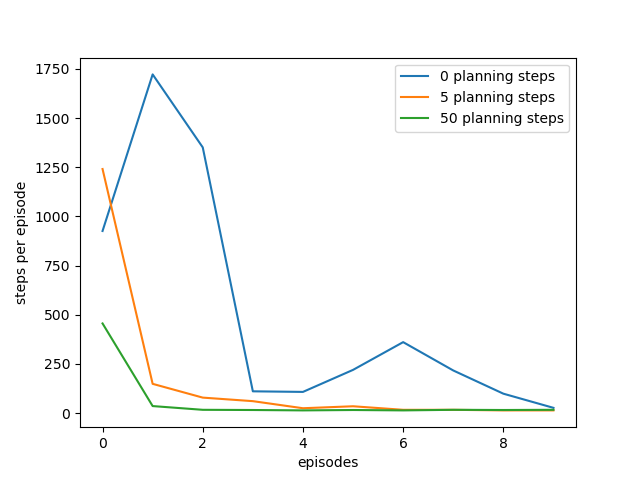
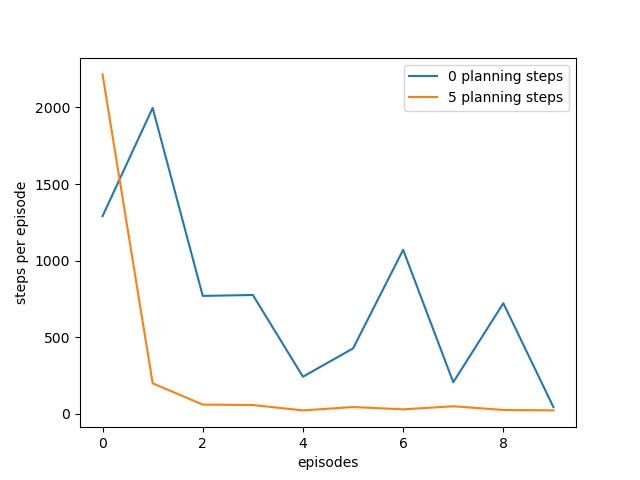
create algorithms file to test

diff --git a/algorithms/Dyn-Q.py b/algorithms/Dyn-Q.py
@@ -4,7 +4,7 @@ matplotlib.use('Agg')
 import matplotlib.pyplot as plt
 from tqdm import tqdm
 import heapq
-from copy import deepcopy
+from copy import copy, deepcopy
 import os
 
 
@@ -14,10 +14,10 @@ import os
 class Maze:
     def __init__(self):
         # maze width
-        self.WORLD_WIDTH = 9
+        self.WORLD_WIDTH = 10
 
         # maze height
-        self.WORLD_HEIGHT = 6
+        self.WORLD_HEIGHT = 10
 
         # all possible actions
         self.ACTION_UP = 0
@@ -30,7 +30,8 @@ class Maze:
         self.START_STATE = [2, 0]
 
         # goal state
-        self.GOAL_STATES = [[0, 8]]
+        # self.GOAL_STATES = [[0, 8],[2,1]]
+        self.GOAL_STATES = [[0, 9]]
 
         # all obstacles
         self.obstacles = [[1, 2], [2, 2], [3, 2], [0, 7], [1, 7], [2, 7], [4, 5]]
@@ -54,7 +55,7 @@ class Maze:
 
     # take @action in @state
     # @return: [new state, reward]
-    def step(self, state, action):
+    def step(self, state, action, ends):
         x, y = state
         if action == self.ACTION_UP:
             x = max(x - 1, 0)
@@ -66,7 +67,7 @@ class Maze:
             y = min(y + 1, self.WORLD_WIDTH - 1)
         if [x, y] in self.obstacles:
             x, y = state
-        if [x, y] in self.GOAL_STATES:
+        if [x, y] in ends:
             reward = 1.0
         else:
             reward = 0.0
@@ -140,8 +141,10 @@ def choose_action(state, q_value, maze, dyna_params):
 # @dyna_params: several params for the algorithm
 def dyna_q(q_value, model, maze, dyna_params):
     state = maze.START_STATE
+    ends = copy(maze.GOAL_STATES)
     steps = 0
-    while state not in maze.GOAL_STATES:
+    while ends:
+
         # track the steps
         steps += 1
 
@@ -149,7 +152,7 @@ def dyna_q(q_value, model, maze, dyna_params):
         action = choose_action(state, q_value, maze, dyna_params)
 
         # take action
-        next_state, reward = maze.step(state, action)
+        next_state, reward = maze.step(state, action, ends)
 
         # Q-Learning update
         q_value[state[0], state[1], action] += \
@@ -172,8 +175,53 @@ def dyna_q(q_value, model, maze, dyna_params):
         if steps > maze.max_steps:
             break
 
+        if state in ends:
+            ends.remove(state)
+
     return steps
 
+def dyna_q_action(q_value, model, maze, dyna_params):
+    state = maze.START_STATE
+    ends = copy(maze.GOAL_STATES)
+    steps = 0
+    actions_record = []
+    while ends:
+
+        # track the steps
+        steps += 1
+
+        # get action
+        action = choose_action(state, q_value, maze, dyna_params)
+
+        # take action
+        next_state, reward = maze.step(state, action, ends)
+
+        # Q-Learning update
+        q_value[state[0], state[1], action] += \
+            dyna_params.alpha * (reward + dyna_params.gamma * np.max(q_value[next_state[0], next_state[1], :]) -
+                                 q_value[state[0], state[1], action])
+
+        # feed the model with experience
+        model.feed(state, action, next_state, reward)
+
+        # sample experience from the model
+        for t in range(0, dyna_params.planning_steps):
+            state_, action_, next_state_, reward_ = model.sample()
+            q_value[state_[0], state_[1], action_] += \
+                dyna_params.alpha * (reward_ + dyna_params.gamma * np.max(q_value[next_state_[0], next_state_[1], :]) -
+                                     q_value[state_[0], state_[1], action_])
+
+        state = next_state
+
+        # check whether it has exceeded the step limit
+        if steps > maze.max_steps:
+            break
+
+        if state in ends:
+            ends.remove(state)
+        actions_record.append(action)
+
+    return actions_record
 
 if __name__ == '__main__':
     # set up an instance for DynaMaze
@@ -182,7 +230,7 @@ if __name__ == '__main__':
 
     runs = 1
     episodes = 10
-    planning_steps = [0, 5, 50]
+    planning_steps = [0, 5]
     steps = np.zeros((len(planning_steps), episodes))
 
     for run in tqdm(range(runs)):
@@ -206,4 +254,5 @@ if __name__ == '__main__':
     plt.legend()
     plt.savefig(os.getcwd()+'/algorithms/images/figure_8_2.png')
     plt.close()
-
+    actions = dyna_q_action(q_value, model, dyna_maze, dyna_params)
+    print(actions)
